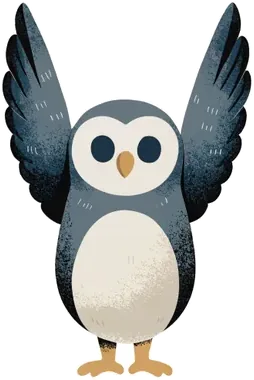
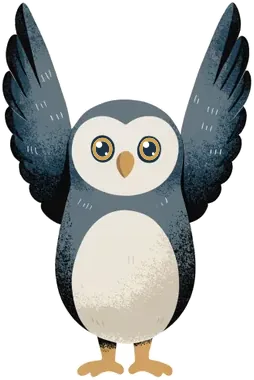
어린이 독일어 첫걸음: 부엉이 Sofi에 눈을 그려 넣음
- 눈이 남색 타원뿐이라 눈이 없는 것처럼 보이던 Sofi에 호박색 홍채와 눈동자, 반짝임을 그림
- 고친 그림: Sofi 자세 세 개(hallo, super, hoer)와 배경 없는 그림, 얼굴 그림, 앱 아이콘 네 개
- kinder/tools/sofi_augen.py: 눈 그리는 도구 (이미 눈이 있는 그림은 건너뜀)
- 목차의 어린이 교재 칸 업데이트 날짜 2026.11.23

Claude-Session: https://claude.ai/code/session_01JAQNpbBw3QLVr3CXdUMwf2

Changed region(s): [[0.3583, 0.3474, 0.4685, 0.4342], [0.5512, 0.3474, 0.6339, 0.4342]]

diff --git a/index.html b/index.html
@@ -350,7 +350,7 @@ html[data-theme="dark"] .tile:hover .go,html[data-theme="dark"] .tile:focus-visi
       <section class="cat" aria-labelledby="cat-lehrbuch">
         <header class="cat-h"><h2 id="cat-lehrbuch">Lehrbuch</h2></header>
         <ul class="grid one">
-        <li><a class="tile" href="kinder/" style="--i:1"><span class="upd"><span>업데이트</span><span>2026.11.22</span></span>
+        <li><a class="tile" href="kinder/" style="--i:1"><span class="upd"><span>업데이트</span><span>2026.11.23</span></span>
           <span class="lab">SODA Kinder</span><b class="ttl">어린이 독일어 첫걸음</b><span class="dsc">부엉이 Sofi와 함께 듣고, 따라 말하고, 놀면서 배우는 어린이·초등 저학년 교재</span>
           <span class="tile-foot"><span class="metas"><span class="meta">32단원 · 명절 4단원</span></span><span class="go" aria-hidden="true"><svg viewBox="0 0 24 24" fill="none" stroke="currentColor" stroke-width="2.6" stroke-linecap="round" stroke-linejoin="round"><path d="M5 12h14M13 6l6 6-6 6"/></svg></span></span>
         </a></li>

diff --git a/kinder/tools/sofi_augen.py b/kinder/tools/sofi_augen.py
@@ -1,0 +1,121 @@
+#!/usr/bin/env python3
+"""Sofi의 눈 그리기.
+
+  python3 kinder/tools/sofi_augen.py [kinder 폴더]
+
+생성한 Sofi 그림의 눈은 남색 타원뿐이라 눈이 없는 것처럼 보입니다. 이 도구가 눈마다 호박색 홍채 고리와
+흰 반짝임 두 개를 덧그립니다. 원래의 남색 타원은 테두리와 눈동자로 남습니다.
+고치는 그림: img/c/sofi_hallo, sofi_super, sofi_hoer(.webp 와 _a.webp), img/c/av_sofi.webp, icons/ 의 아이콘 네 개.
+sofi_schlaf 는 눈을 감고 있어서 그대로 둡니다. 이미 눈이 그려진 그림은 건너뜁니다.
+"""
+import os, sys, importlib.util
+import numpy as np
+from PIL import Image, ImageDraw
+from scipy import ndimage as ndi
+
+T = os.path.dirname(os.path.abspath(__file__))
+K = os.path.abspath(sys.argv[1]) if len(sys.argv) > 1 else os.path.dirname(T)
+SS = 8                              # 덧그릴 때의 확대 배율 (줄이면서 가장자리가 부드러워집니다)
+IRIS = (210, 162, 86, 255)          # 홍채: 부리와 같은 계열의 호박색
+GLANZ = (255, 253, 248, 255)        # 반짝임
+R_IRIS, R_PUP = 0.86, 0.58          # 눈 반지름에 대한 홍채의 바깥, 안쪽 반지름
+SHADE = np.array([0.80, 0.77, 0.72])                    # hoer 자세: 날개 그늘에 든 쪽
+HOER = dict(disc=(237.6, 91.9, 15.3, 17.6), shade_from=243.8)   # hoer 자세의 뜬 눈 (그늘과 날개에 닿아 있어 자리를 적어 둡니다)
+
+
+def find_discs(im, lo=25, hi=4000):
+    """짙은 남색 타원을 찾습니다: [(cx, cy, rx, ry)]"""
+    a = np.asarray(im.convert('RGB')).astype(int); r, g, b = a[..., 0], a[..., 1], a[..., 2]
+    lab, n = ndi.label((r < 75) & (g < 85) & (b < 115)); out = []
+    for i in range(1, n + 1):
+        ys, xs = np.nonzero(lab == i); area = len(ys)
+        if not lo <= area <= hi: continue
+        w = xs.max() - xs.min() + 1; h = ys.max() - ys.min() + 1
+        if 0.70 <= area / (w * h) <= 0.88 and 0.7 <= w / h <= 1.3:
+            out.append(((xs.min() + xs.max() + 1) / 2, (ys.min() + ys.max() + 1) / 2, w / 2, h / 2))
+    return sorted(out)
+
+
+def ocker(px):
+    r, g, b = [int(v) for v in px[:3]]
+    return r > 150 and b < 150 and r - b > 55
+
+
+def painted(im, disc):
+    """이 자리에 이미 홍채가 있는가: 타원의 안쪽 고리 자리와 바로 바깥을 살핍니다."""
+    a = np.asarray(im.convert('RGB')); cx, cy, rx, ry = disc; H, W = a.shape[:2]; hit = 0
+    for k in (0.72, 1.3):
+        for dx, dy in ((-1, 0), (0, -1), (0, 1), (-0.7, -0.7), (-0.7, 0.7)):
+            x = int(round(cx + dx * rx * k)); y = int(round(cy + dy * ry * k))
+            if 0 <= x < W and 0 <= y < H and ocker(a[y, x]): hit += 1
+    return hit >= 2
+
+
+def overlay(size, discs):
+    W, H = size
+    big = Image.new('RGBA', (W * SS, H * SS), (0, 0, 0, 0)); d = ImageDraw.Draw(big)
+    def ell(cx, cy, rx, ry, col):
+        d.ellipse([(cx - rx) * SS, (cy - ry) * SS, (cx + rx) * SS, (cy + ry) * SS], fill=col)
+    for cx, cy, rx, ry in discs:
+        ell(cx, cy, rx * R_IRIS, ry * R_IRIS, IRIS)
+        ell(cx, cy, rx * R_PUP, ry * R_PUP, (0, 0, 0, 0))           # 눈동자 자리는 비워 원래 남색을 둡니다
+    for cx, cy, rx, ry in discs:
+        ell(cx - rx * 0.30, cy - ry * 0.33, rx * 0.27, rx * 0.27, GLANZ)      # 큰 반짝임, 왼쪽 위
+        ell(cx + rx * 0.33, cy + ry * 0.36, rx * 0.115, rx * 0.115, GLANZ)    # 작은 반짝임, 오른쪽 아래
+    arr = np.asarray(big).astype(np.float64); al = arr[..., 3:4] / 255.0; arr[..., :3] *= al
+    pm = Image.fromarray(arr.round().astype(np.uint8), 'RGBA').resize((W, H), Image.BOX)
+    p = np.asarray(pm).astype(np.float64); al = p[..., 3:4] / 255.0
+    return np.dstack([(p[..., :3] / np.maximum(al, 1e-6)).clip(0, 255), p[..., 3:4]])
+
+
+def paint(im, discs, shade_from=None):
+    base = np.asarray(im.convert('RGB')).astype(np.float64); ov = overlay(im.size, discs)
+    rgb = ov[..., :3]; al = ov[..., 3:4] / 255.0
+    if shade_from is not None:
+        sh = np.clip(np.arange(im.width)[None, :, None] - shade_from, 0, 1)
+        rgb = rgb * (1 - sh) + rgb * SHADE * sh
+    return Image.fromarray((base * (1 - al) + rgb * al).round().clip(0, 255).astype(np.uint8), 'RGB')
+
+
+def same_size(discs):
+    rx = sum(d[2] for d in discs) / len(discs); ry = sum(d[3] for d in discs) / len(discs)
+    return [(d[0], d[1], rx, ry) for d in discs]
+
+
+def eyes_of(im):
+    """아직 눈을 그리지 않은 남색 타원 두 개. 없으면 None."""
+    d = [x for x in find_discs(im) if not painted(im, x)]
+    return same_size(d) if len(d) == 2 else None
+
+
+def main():
+    spec = importlib.util.spec_from_file_location('kbuild', f'{T}/build.py'); kb = importlib.util.module_from_spec(spec)
+    sys.dont_write_bytecode = True; spec.loader.exec_module(kb)
+    done = []
+    for pose in ('hallo', 'super', 'hoer'):
+        f = f'{K}/img/c/sofi_{pose}.webp'; src = Image.open(f).convert('RGB')
+        if pose == 'hoer':
+            discs = None if painted(src, HOER['disc']) else [HOER['disc']]; shade = HOER['shade_from']
+        else:
+            discs = eyes_of(src); shade = None
+        if not discs: print(f'sofi_{pose}: 건너뜀 (눈이 이미 있거나 찾지 못함)'); continue
+        new = paint(src, discs, shade); new.save(f, 'WEBP', quality=92, method=6)
+        im = kb._white(new); m = ndi.binary_fill_holes(ndi.binary_dilation(kb._ink(im), iterations=2))
+        kb._cut(im, m, kb._bbox(m), 1.0, f'{K}/img/c/sofi_{pose}_a.webp'); done.append(f'sofi_{pose}')
+    f = f'{K}/img/c/av_sofi.webp'; src = Image.open(f).convert('RGB'); d = eyes_of(src)
+    if d: paint(src, d).save(f, 'WEBP', quality=92, method=6); done.append('av_sofi')
+    else: print('av_sofi: 건너뜀')
+    big = None
+    for name in ('icon-512.png', 'icon-maskable-512.png'):
+        f = f'{K}/icons/{name}'; src = Image.open(f).convert('RGB'); d = eyes_of(src)
+        if not d: print(f'{name}: 건너뜀'); continue
+        new = paint(src, d); new.save(f, 'PNG', optimize=True); done.append(name)
+        if name == 'icon-512.png': big = new
+    if big is not None:                                             # 작은 아이콘 두 개는 512 아이콘을 줄인 것입니다
+        for name, n in (('icon-192.png', 192), ('apple-touch-icon.png', 180)):
+            big.resize((n, n), Image.LANCZOS).save(f'{K}/icons/{name}', 'PNG', optimize=True); done.append(name)
+    print('눈을 그린 그림:', ', '.join(done) if done else '없음')
+
+
+if __name__ == '__main__':
+    main()
